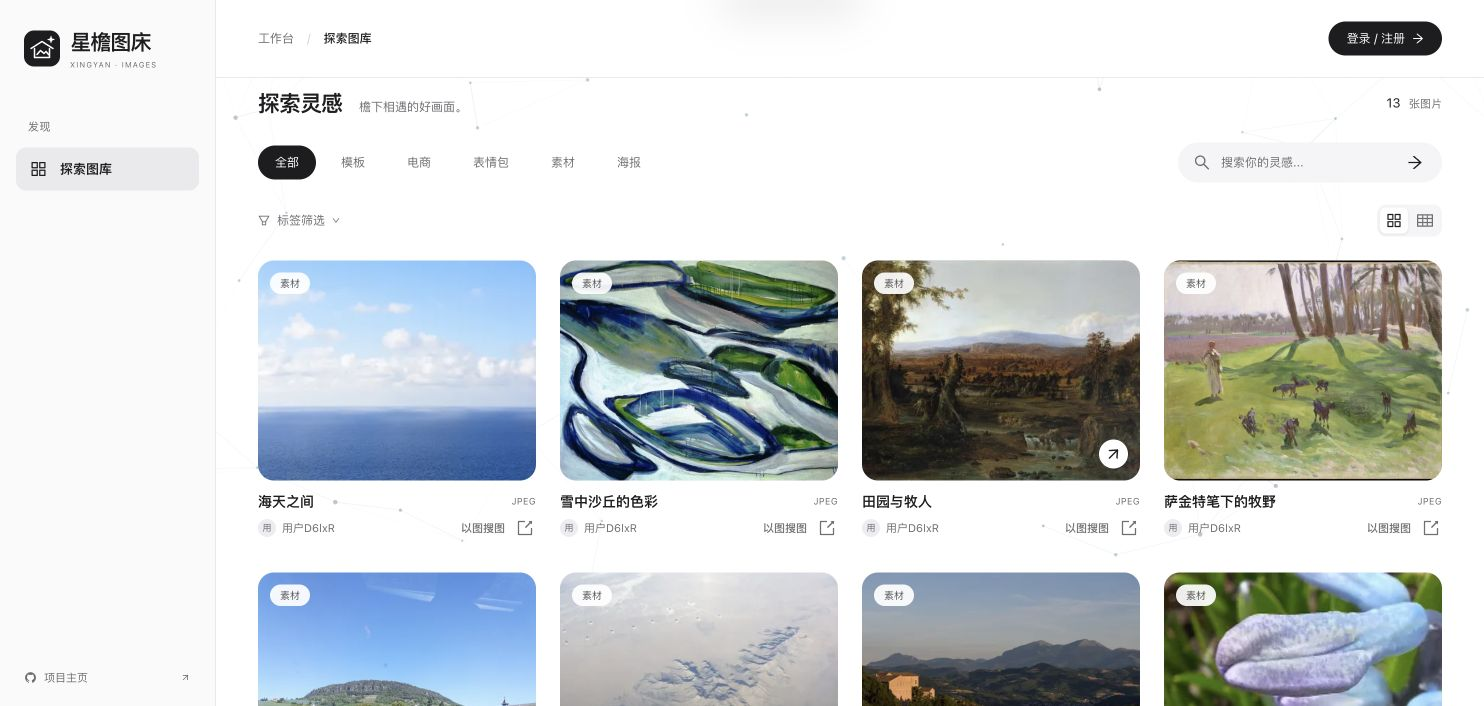
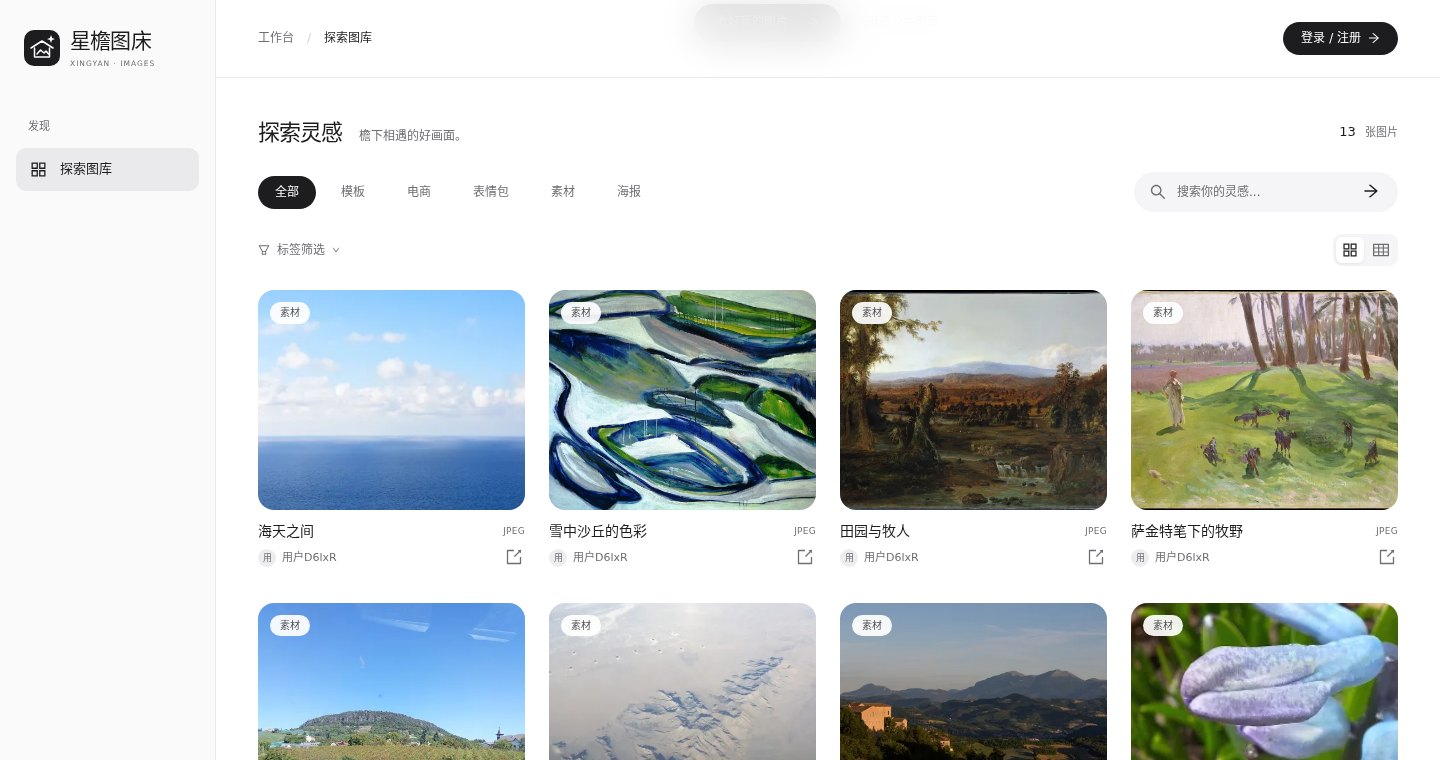
docs: refresh README layout and live screenshots
- Centered header with monochrome stack badges and quick links.
- "三种图床" comparison table (public / personal / team).
- Re-shot gallery, gallery browse and the redesigned picture detail from
  tc.higjx.com; add mobile home and detail screenshots.
- Mermaid architecture overview next to the stack table.
- Correct outdated notes: self-service profile/password now exist; private
  storage is enabled with anonymous access denied; AI and image search
  remain optional and disabled online.

diff --git a/README.md b/README.md
@@ -1,95 +1,108 @@
 <p align="center">
-  <img src="frontend/public/favicon.svg" width="72" height="72" alt="星檐图床标识" />
+  <img src="frontend/public/favicon.svg" width="76" height="76" alt="星檐图床标识" />
 </p>
 
 <h1 align="center">星檐图床</h1>
-<p align="center">为每一张图片，留一处屋檐。</p>
 
 <p align="center">
-  <strong><a href="https://tc.higjx.com/">打开星檐 · 在线体验</a></strong>
-  &nbsp; / &nbsp;
-  <a href="#跟着界面逛一圈">界面与功能</a>
-  &nbsp; / &nbsp;
-  <a href="#在自己的电脑上试试">本地运行</a>
-  &nbsp; / &nbsp;
+  <b>为每一张图片，留一处屋檐。</b><br />
+  <sub>公共图库 · 个人图床 · 团队图床 —— 一个安静、好找、也方便分享的图片居所。</sub>
+</p>
+
+<p align="center">
+  <a href="https://tc.higjx.com/"><img alt="在线体验" src="https://img.shields.io/badge/live-tc.higjx.com-1d1d1f?style=flat-square" /></a>
+  <img alt="Vue 3" src="https://img.shields.io/badge/Vue-3-1d1d1f?style=flat-square&logo=vuedotjs&logoColor=white" />
+  <img alt="TypeScript" src="https://img.shields.io/badge/TypeScript-1d1d1f?style=flat-square&logo=typescript&logoColor=white" />
+  <img alt="Spring Boot 2.7" src="https://img.shields.io/badge/Spring%20Boot-2.7-1d1d1f?style=flat-square&logo=springboot&logoColor=white" />
+  <img alt="MySQL" src="https://img.shields.io/badge/MySQL-1d1d1f?style=flat-square&logo=mysql&logoColor=white" />
+  <img alt="Redis" src="https://img.shields.io/badge/Redis-1d1d1f?style=flat-square&logo=redis&logoColor=white" />
+</p>
+
+<p align="center">
+  <a href="https://tc.higjx.com/"><b>打开星檐 →</b></a>
+  &nbsp;·&nbsp;
+  <a href="#三种图床">三种图床</a>
+  &nbsp;·&nbsp;
+  <a href="#本地运行">本地运行</a>
+  &nbsp;·&nbsp;
   <a href="docs/getting-started.md">部署指南</a>
 </p>
 
-<p align="center">网站地址：<a href="https://tc.higjx.com/">https://tc.higjx.com/</a></p>
+<a href="https://tc.higjx.com/"><img src="docs/images/gallery.jpg" alt="星檐首页：品牌欢迎区与公共图库" /></a>
+
+<p align="center"><sub>本文截图均直接拍摄于 <a href="https://tc.higjx.com/">tc.higjx.com</a>（2026 年 10 月 30 日），是当时真实的线上界面与内容，之后可能随更新变化。</sub></p>
 
 照片、截图、随手存下的灵感，攒着攒着就散在了不同的文件夹里。星檐想给这些画面一个好找、好整理，也方便分享的地方。
 
-你可以来公共图库随便逛逛，分享自己的作品，也可以在个人或团队空间里整理图片。界面尽量安静一点：黑白、留白，把颜色留给图片本身。
+界面尽量安静一点：黑白、留白，把颜色留给图片本身。第一次来，可以先在公共图库随便逛逛，不用登录；想分享作品或整理自己的图片时，再注册就好。
 
-![星檐首页：品牌欢迎区、分类筛选、搜索与公共图片卡片](docs/images/gallery.jpg)
+## 三种图床
 
-<p align="center"><sub>截图直接拍摄于 https://tc.higjx.com/，拍摄日期为 2026 年 10 月 28 日。展示的是当时的线上界面与内容，后续可能随更新变化。</sub></p>
+|  | 公共图床 | 个人图床 | 团队图床 |
+| --- | --- | --- | --- |
+| **谁能看到** | 所有访客 | 只有你自己 | 团队成员 |
+| **适合做什么** | 分享作品，逛逛别人的好图 | 收好参考图、日常照片与私藏素材 | 和伙伴共用一份项目素材 |
+| **在哪里** | 首页「探索图库」·「我的投稿」 | 「我的空间」 | 「团队空间」 |
+| **亮点** | 分类、标签、关键词找图；投稿审核 | 容量统计、按颜色找图、批量操作 | 浏览 / 编辑 / 管理三种角色，协同编辑 |
 
-## 先来逛逛
+### 公共图库：先逛逛，找点灵感
 
-**在线体验 → [https://tc.higjx.com/](https://tc.higjx.com/)**
+按分类、标签和关键词找图，也可以切换疏密布局。从海景到画作，不登录也能先看看这里都收了些什么。
 
-第一次来，可以先浏览公共图库，按分类或关键词找一张感兴趣的图片，再点进去看看详情。想分享作品或使用自己的工作台时，再注册、登录就好。
+![线上公共图库：分类、搜索、标签筛选、布局切换与图片卡片](docs/images/gallery-browse.jpg)
 
-如果你是来看代码的，可以继续往下看；如果只是想找点灵感，直接打开网站也欢迎。
+### 图片详情：喜欢一张图，就点进去看看
 
-## 跟着界面逛一圈
+大图放在安静的浅灰画布上，右边是标题、作者、简介和标签，尺寸、格式、大小与主色调收在一张简洁的信息表里，分享入口也在这里。
 
-### 想找点灵感，先逛逛公共图库
+![线上图片详情：海天之间的大图、作者、来源说明、标签与图片信息](docs/images/picture-detail.jpg)
 
-首页可以按分类、标签和关键词找图，也可以切换图片布局。从海景到画作，不用登录也能先看看这里都收了些什么。
+<sub>图中的「海天之间」来自线上公共图库，简介里保留了作者、来源与许可说明。</sub>
 
-![线上公共图库：实际图片、分类、搜索、标签筛选与布局切换](docs/images/gallery-browse.jpg)
+### 我的投稿：分享出去的作品，都在这里
 
-### 喜欢一张图，就点进去看看
-
-详情页把图片和信息放在一起：预览、简介、分类、标签、尺寸、格式与主色调，不用来回切换就能了解这张图。
-
-![线上图片详情：海天之间的图片预览、来源介绍、标签、尺寸与分享入口](docs/images/picture-detail.jpg)
-
-图中的「海天之间」来自线上公共图库，简介保留了作者、来源和许可说明。分享入口也在详情页里，方便把喜欢的图片发给别人。
-
-### 想分享的作品，放进「我的投稿」
-
-发过哪些图片，哪些还在草稿里，哪些正在等审核，都能在这里找到。需要修改的作品会显示反馈，完善后可以重新提交，不用在一堆图片里反复翻找。
-
-**你能在这里做的事：** 查看已公开、待审核、草稿和需修改的作品，按名称搜索，继续编辑或进入详情。草稿与未通过审核的作品不会出现在公共图库。
+已公开、待审核、草稿、需修改，一眼就能分清。需要修改的作品会显示审核反馈，完善后可以重新提交；草稿和未通过审核的作品不会出现在公共图库。
 
 ### 个人图床：留给自己的图片，收进「我的空间」
 
 收集参考图、整理日常照片，或者留一份自己的创作素材。空间把图片、搜索和容量用量放在一起，想找图时不用只靠记住文件名。
 
-![线上个人图床：私有空间创建入口、空间名称与容量等级选择](docs/images/personal-space.jpg)
+![线上个人图床：私有空间的创建入口与容量等级](docs/images/personal-space.jpg)
 
-第一次使用，从创建自己的空间开始。截图是线上账号尚未创建个人空间时的实际页面；可以按不同主题建立多个空间，再整理各自的图片。
-
-**你能在这里做的事：** 管理空间内图片，按关键词、条件或颜色查找，查看容量与图片数量，并在具备权限时使用批量操作和图库分析。
+<sub>截图是线上账号尚未创建个人空间时的实际页面。</sub>
 
 ### 团队图床：一起用的素材，交给「团队空间」
 
-一起做项目时，团队成员可以在同一个空间里查看和整理图片。浏览、编辑和管理分别对应不同角色，成员管理与用量信息也有单独入口。
+团队成员在同一个空间里查看和整理图片。浏览者只能查看，编辑者可以上传、编辑和删除，团队管理员还能管理成员、分析图库；基于 WebSocket 的协同编辑会同步大家的修改状态。
 
-![线上团队图床：团队空间入口、创建按钮与成员角色权限说明](docs/images/team-space.jpg)
+![线上团队图床：团队空间入口、创建按钮与成员角色说明](docs/images/team-space.jpg)
 
-截图是线上账号尚未加入团队时的实际页面，展示创建入口与角色说明。创建或加入团队后，再进入团队空间整理共同使用的素材。
+<sub>截图是线上账号尚未加入团队时的实际页面。</sub>
 
-**你能在这里做的事：** 进入加入的团队；按角色查看、上传或编辑图片；由团队管理员管理成员与分析图库。项目还实现了基于 WebSocket 的协作编辑状态同步。
+> 个人与团队空间里的图片存放在独立的私有存储桶中，匿名访问会被拒绝。部署自己的实例时，需要按[启动指南](docs/getting-started.md)单独配置私有存储。
 
-> 个人／团队空间的私有图片读写需要配置存储与访问权限。仓库示例配置默认关闭私有图片能力；部署自己的实例时，需要按启动指南接入这些服务。
+## 在手机上，也一样好用
 
-### 还有一些用起来才会注意到的小地方
+<p align="center">
+  <img src="docs/images/mobile-home.jpg" width="260" alt="手机上的星檐首页" />
+  &nbsp;&nbsp;
+  <img src="docs/images/mobile-detail.jpg" width="260" alt="手机上的图片详情" />
+</p>
 
-- 从图片详情返回列表，会恢复之前的筛选和浏览位置。
-- 编辑内容尚未保存时，离开页面会有提醒。
-- 图库可以切换疏密布局，背景动效也可以关闭。
+## 用起来才会注意到的小地方
+
+- 从图片详情返回列表，会回到之前的筛选条件和浏览位置。
+- 编辑内容还没保存就离开页面，会先提醒一下。
+- 可以在设置里修改昵称、简介和密码；改密码后，其他设备上的登录会自动失效。
+- 连续输错密码会被暂时限制登录，账号也不会因为提示文字暴露是否存在。
+- 背景粒子和动态效果都可以关掉，也会遵循系统的「减少动态效果」设置。
 - 图片处理包含上传、裁剪、缩略图与展示图；图库分析提供容量、分类、标签、大小与上传趋势等视角。
-- AI 扩图、以图搜图是可选能力，需要额外配置服务与凭据，详见[启动说明](docs/getting-started.md)。
 
-## 在自己的电脑上试试
+## 本地运行
 
 ### 先看看界面
 
-想先把页面跑起来，可以用仓库自带的预览模式。准备 Node.js `^20.19.0` 或 `>=22.12.0`，然后执行：
+仓库自带一个用合成数据的预览模式，不需要数据库或云密钥。准备 Node.js `^20.19.0` 或 `>=22.12.0`，然后执行：
 
 ```sh
 git clone https://github.com/hollegjx/xingyan-image-host.git
@@ -98,13 +111,11 @@ npm ci
 npm run dev:design
 ```
 
-打开 **[http://localhost:5173/](http://localhost:5173/)**，就能用合成数据预览界面，不需要先配置数据库或云密钥。这里的预览数据与上面的线上截图不同。克隆需要具备仓库访问权限。
-
-预览模式使用合成数据，所有写入都被禁用，不执行真实登录、上传、删除或 AI 请求；部分依赖后端的页面不提供预览数据。它适合看界面，完整功能需要连接后端，也不能用这个模式打包生产版本。
+打开 **[http://localhost:5173/](http://localhost:5173/)** 就能看到界面。预览模式里所有写入都被禁用，不会执行真实的登录、上传、删除或 AI 请求，部分依赖后端的页面也没有预览数据；它适合看界面，不能用来打包生产版本。
 
 ### 再把完整服务跑起来
 
-真实使用需要分别启动前端和后端，并配置 MySQL、Redis；图片存储与可选外部服务按需接入。把准备步骤和配置细节放在单独的文档里，方便边做边查：
+真实使用需要分别启动前端和后端，并配置 MySQL、Redis；图片存储与可选的外部服务按需接入：
 
 | 你现在想做什么 | 从这里开始 |
 | --- | --- |
@@ -113,15 +124,26 @@ npm run dev:design
 | 调整接口、运行后端测试 | [后端开发说明](backend/README.md) |
 | 准备自己的线上部署 | [配置安全与发布检查](SECURITY.md) |
 
-## 如果你也对实现感兴趣
+## 实现概览
 
-星檐采用前后端分离的结构。前端负责页面和交互，后端处理图片、空间、权限与数据；两者放在同一个仓库里，方便一起阅读和联调。
+星檐采用前后端分离的结构，前后端放在同一个仓库里，方便一起阅读和联调。
+
+```mermaid
+flowchart LR
+  user["浏览器<br/>Vue 3 · Ant Design Vue"] -->|HTTPS| web["Web 服务器"]
+  web -->|静态页面| front["前端构建产物"]
+  web -->|/tuku/api| api["Spring Boot 2.7"]
+  api --> db[("MySQL")]
+  api --> cache[("Redis<br/>会话 · 缓存")]
+  api --> cos[("腾讯云 COS<br/>公共桶 · 私有桶")]
+  user -. 公共图片直链 .-> cos
+```
 
 | 部分 | 使用的技术 | 在项目里负责什么 |
 | --- | --- | --- |
 | 页面与交互 | Vue 3、TypeScript、Vite、Pinia、Ant Design Vue | 图库、工作台、表单与界面状态 |
 | 接口与数据 | Java、Spring Boot 2.7、MyBatis-Plus、MySQL | 图片和空间业务、权限校验、数据存储 |
-| 缓存与登录 | Caffeine、Redis、Spring Session | 公共图片分页缓存与会话管理 |
+| 缓存与登录 | Caffeine、Redis、Spring Session | 公共图片分页缓存、会话管理与登录失败限制 |
 | 图片与协作 | 腾讯云 COS、WebSocket、Disruptor | 图片存储与处理、协作编辑事件 |
 | 数据展示 | ECharts | 图库容量、内容分布与上传趋势 |
 | 验证 | Vitest、Playwright、JUnit、H2 | 前后端测试与交互回归，另有隔离 Redis 测试 |
@@ -138,7 +160,7 @@ xingyan-image-host/
 
 如果你试用时遇到了不顺手的地方，或者希望增加某个功能，欢迎在 [Issues](https://github.com/hollegjx/xingyan-image-host/issues) 里聊聊。告诉我们你当时想做什么、卡在哪一步；能附上一张去掉个人信息的截图，就更容易一起找到原因。
 
-目前普通用户的资料页以展示为主，还没有自助修改资料和密码的接口。真实 COS、AI 与外部搜索也需要自己的服务配置，自动化测试通过并不等于这些服务已经接通。
+AI 扩图与以图搜图是可选能力，线上目前没有开放，自己部署时需要配置对应的服务与凭据；绑定邮箱和注销账户也还没有开放。自动化测试通过，并不等于这些外部服务已经接通。
 
 <details>
 <summary>关于源码、第三方资源与部署</summary>
@@ -151,4 +173,4 @@ xingyan-image-host/
 
 ---
 
-由 [GJX](https://github.com/hollegjx) 持续打磨。谢谢你来逛逛，也希望这里能留住一两张你喜欢的画面。
+<p align="center"><sub>由 <a href="https://github.com/hollegjx">GJX</a> 持续打磨。谢谢你来逛逛，也希望这里能留住一两张你喜欢的画面。</sub></p>
